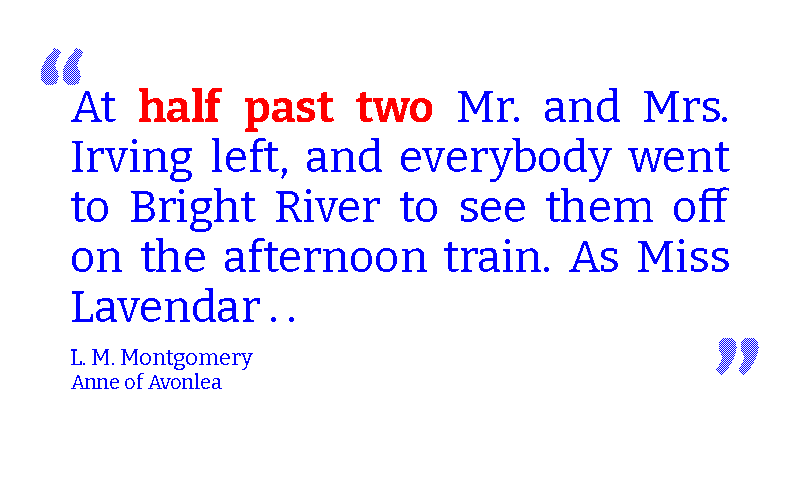
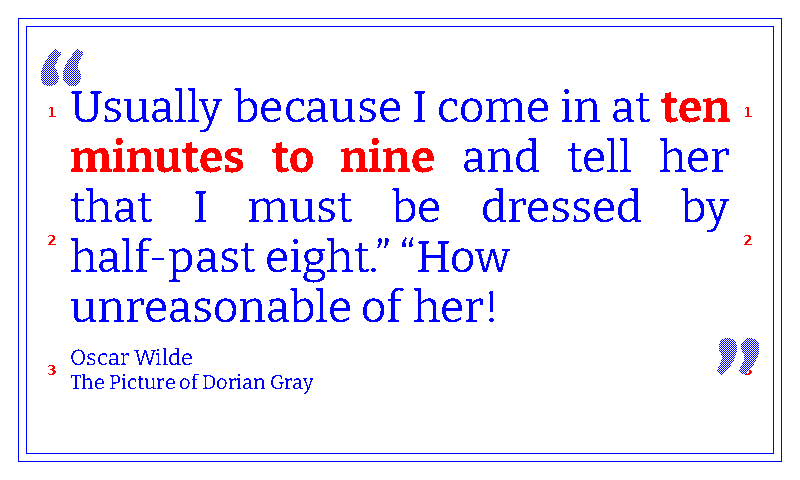
Add scholar border treatment

diff --git a/render_quote.py b/render_quote.py
@@ -964,6 +964,42 @@ def draw_risograph_border(image: Image.Image, colors: dict) -> None:
         cross(cx + dx, cy + dy, accent)
 
 
+def draw_scholar_border(image: Image.Image, colors: dict) -> None:
+    """Paint a restrained academic-journal margin treatment.
+
+    Scholar gets subtle editorial structure rather than loud decoration:
+    a double blue frame, two inner column rules, and a few sparse red
+    reference marks at the outer margins. It should feel like a curated
+    critical edition, not a page that has been attacked by graduate students.
+    """
+    draw = ImageDraw.Draw(image)
+    width, height = image.size
+    body = colors["text"]
+    accent = colors["accent"]
+    outer_inset = 18
+    inner_inset = 26
+    left_rule = 92
+    right_rule = width - 92
+
+    draw.rectangle(
+        (outer_inset, outer_inset, width - 1 - outer_inset, height - 1 - outer_inset),
+        outline=body,
+        width=1,
+    )
+    draw.rectangle(
+        (inner_inset, inner_inset, width - 1 - inner_inset, height - 1 - inner_inset),
+        outline=body,
+        width=1,
+    )
+
+    marker_font = load_font(META_FONT_BOLD_CANDIDATES, size=14)
+    for label, y in [("1", 104), ("2", height // 2 - 8), ("3", height - 118)]:
+        bbox = draw.textbbox((0, 0), label, font=marker_font)
+        xoff = (bbox[2] - bbox[0]) // 2
+        draw_text(draw, (52 - xoff, y), label, font=marker_font, fill=accent)
+        draw_text(draw, (width - 52 - xoff, y), label, font=marker_font, fill=accent)
+
+
 def draw_blueprint_border(image: Image.Image, colors: dict, clear_rect: tuple[int, int, int, int] | None = None) -> None:
     """Paint a drafting-sheet border and graph-paper grid over the canvas.
 
@@ -1157,65 +1193,6 @@ def draw_nightvision_border(image: Image.Image, colors: dict) -> None:
     draw.rectangle((right_x - arm, bottom_y - thickness + 1, right_x, bottom_y), fill=bracket)
     draw.rectangle((right_x - thickness + 1, bottom_y - arm, right_x, bottom_y), fill=bracket)
 
-
-def draw_scholar_border(image: Image.Image, colors: dict) -> None:
-    """Paint an annotated-manuscript / academic-journal margin system.
-
-    Scholar gets a more opinionated page architecture than a plain frame:
-    double blue margin rules, faint horizontal baseline guides in the outer
-    margins, and small red footnote / reference glyphs that make the page
-    feel edited and studied rather than merely recoloured.
-
-    The center text column stays clear; the extra structure lives in the
-    margins where it reads as apparatus, not interference.
-    """
-    draw = ImageDraw.Draw(image)
-    width, height = image.size
-    body = colors["text"]
-    accent = colors["accent"]
-
-    outer_inset = 18
-    inner_inset = 28
-    left_margin_rule = 96
-    right_margin_rule = width - 96
-
-    draw.rectangle(
-        (outer_inset, outer_inset, width - 1 - outer_inset, height - 1 - outer_inset),
-        outline=body,
-        width=1,
-    )
-    draw.rectangle(
-        (inner_inset, inner_inset, width - 1 - inner_inset, height - 1 - inner_inset),
-        outline=body,
-        width=1,
-    )
-
-    draw.line((left_margin_rule, inner_inset, left_margin_rule, height - 1 - inner_inset), fill=body, width=1)
-    draw.line((right_margin_rule, inner_inset, right_margin_rule, height - 1 - inner_inset), fill=body, width=1)
-
-    for y in range(74, height - 60, 42):
-        draw.line((outer_inset + 8, y, left_margin_rule - 10, y), fill=body, width=1)
-        draw.line((right_margin_rule + 10, y, width - 1 - outer_inset - 8, y), fill=body, width=1)
-
-    marker_font = load_font(theme_font_candidates("scholar", "ornament"), size=20)
-    left_marks = ["1", "2", "3", "*", "†", "§"]
-    right_marks = ["a", "b", "c", "¶", "‡", "#"]
-    for i, y in enumerate(range(84, height - 80, 56)):
-        lmark = left_marks[i % len(left_marks)]
-        rmark = right_marks[i % len(right_marks)]
-        lb = draw.textbbox((0, 0), lmark, font=marker_font)
-        rb = draw.textbbox((0, 0), rmark, font=marker_font)
-        draw_text(draw, (54 - (lb[2] - lb[0]) // 2, y), lmark, font=marker_font, fill=accent)
-        draw_text(draw, (width - 54 - (rb[2] - rb[0]) // 2, y), rmark, font=marker_font, fill=accent)
-
-    header_y = 46
-    draw.line((outer_inset + 14, header_y, width // 2 - 70, header_y), fill=body, width=1)
-    draw.line((width // 2 + 70, header_y, width - 1 - outer_inset - 14, header_y), fill=body, width=1)
-    title_font = load_font(META_FONT_BOLD_CANDIDATES, size=15)
-    header = "SCHOLARLY EDITION"
-    hb = draw.textbbox((0, 0), header, font=title_font)
-    hx = (width - (hb[2] - hb[0])) // 2
-    draw_text(draw, (hx, header_y - (hb[3] - hb[1]) - 4), header, font=title_font, fill=body)
 
 _COMIC_STRIPE_PALETTE = (
     SPECTRA6["blue"],
